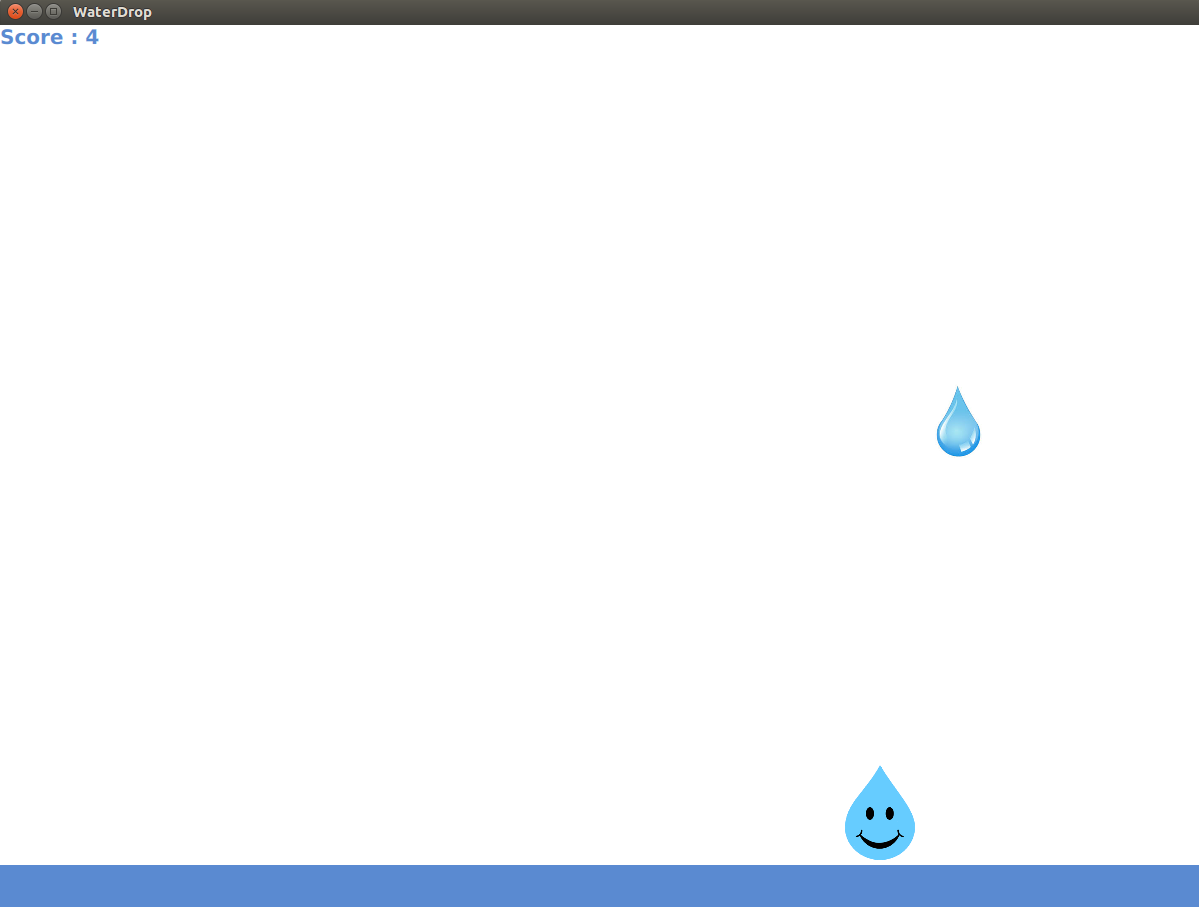
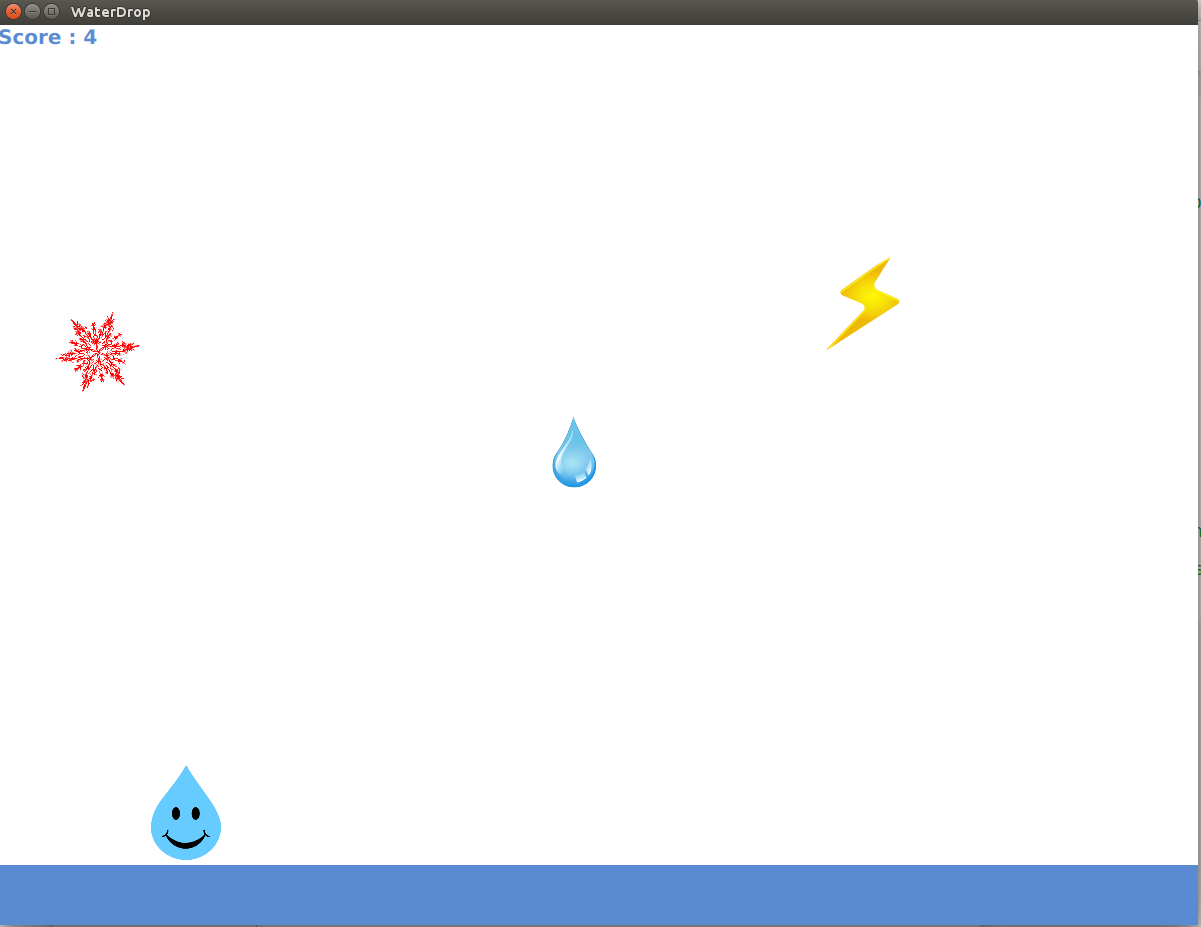
Add boost/slow

diff --git a/Game.qml b/Game.qml
@@ -5,11 +5,11 @@ Item {
     id : game
     visible: false
     property int counter:0
-    property int move:30
+    property int move:40
+    property int flag:0
 
     function test ()
     {
-
         if (imgwater.y<imagwaterdropp.y+50 && imgwater.y>imagwaterdropp.y-50  && imgwater.x<imagwaterdropp.x+50 &&imgwater.x>imagwaterdropp.x-50 )
         {
             imagwaterdropp.x = game.getNumber();
@@ -17,10 +17,10 @@ Item {
             counter = counter + 1;
             anim.restart();
 
-            if (counter>5 && counter<10)
+            if (counter>1 && counter<10)
             {
 
-                anim.duration = 2500
+                anim.duration = 8000
             }
             if (counter>10 && counter<15)
             {
@@ -33,13 +33,83 @@ Item {
 
                 anim.duration = 1900
             }
+            if (counter ==2)
+            {
+                imagebad.y=-200;
+                imagebad.x = game.getNumber();
+                imagebad.visible =true
+                animbad.restart();
+
+            }
+
+            if (counter ==3)
+            {
+                imageboost.y=-200;
+                imageboost.x = game.getNumber();
+                imageboost.visible =true
+                animboost.restart();
+            }
+
         }
         if ((imagwaterdropp.y>(imgwater.y+20)) && counter>0)
         {
             start.state = "visible"
+            animbad.stop()
+            animboost.stop()
+            imagebad.x=-500
+            imagebad.y=-200
+            imageboost.x=-500
+            imageboost.y=-200
         }
     }
 
+    function ral ()
+    {
+
+        if ((imagebad.y>(imgwater.y+20)))
+        {
+
+            imagebad.y=-200;
+            imagebad.x = game.getNumber();
+            animbad.restart();
+        }
+
+
+        if (imgwater.y<imagebad.y+50 && imgwater.y>imagebad.y-50  && imgwater.x<imagebad.x+50 &&imgwater.x>imagebad.x-50 )
+        {
+
+            animbad.stop()
+            //console.log("win")
+            speed.duration +=20
+            imagebad.x=-500
+            imagebad.y=-200
+        }
+
+    }
+    function boost ()
+    {
+
+        if ((imageboost.y>(imgwater.y+20)))
+        {
+
+            imageboost.y=-200;
+            imageboost.x = game.getNumber();
+            animboost.restart();
+        }
+
+
+        if (imgwater.y<imageboost.y+50 && imgwater.y>imageboost.y-50  && imgwater.x<imageboost.x+50 &&imgwater.x>imageboost.x-50 )
+        {
+
+            animboost.stop()
+            console.log("win")
+            move+=20
+            speed.duration -= 20
+            imageboost.x=-500
+            imageboost.y=-200
+        }
+
+    }
     function randomNumber() {
         return Math.random()*950;
     }
@@ -54,6 +124,7 @@ Item {
         focus: true
 
         Keys.onPressed: {
+
 
             if (event.key === Qt.Key_Left) {
 
@@ -93,7 +164,7 @@ Item {
 
             z :2
             id : imgwater
-            Behavior on x { NumberAnimation { duration: 50 } }
+            Behavior on x { NumberAnimation { id:speed ;duration: 50 } }
 
         }
         Text{
@@ -124,6 +195,40 @@ Item {
             onYChanged: {
 
                 test();
+            }
+        }
+        Image {
+
+            id : imagebad
+            width: 85
+            height: 85
+            x : -500
+            y : -200
+            visible: false
+
+            source: "assets/bad.png"
+            fillMode: Image.Stretch
+
+            PropertyAnimation on y { id :animbad; from: imagebad.y;to: ground.y; duration: 6000; loops: Animation.Infinite }
+            onYChanged: {
+                ral();
+            }
+        }
+        Image {
+
+            id : imageboost
+            width: 75
+            height: 95
+            x : -500
+            y : -200
+            visible: false
+
+            source: "assets/boost.png"
+            fillMode: Image.Stretch
+
+            PropertyAnimation on y { id :animboost; from: imageboost.y;to: ground.y; duration: 5000; loops: Animation.Infinite }
+            onYChanged: {
+                boost();
             }
         }
     }
